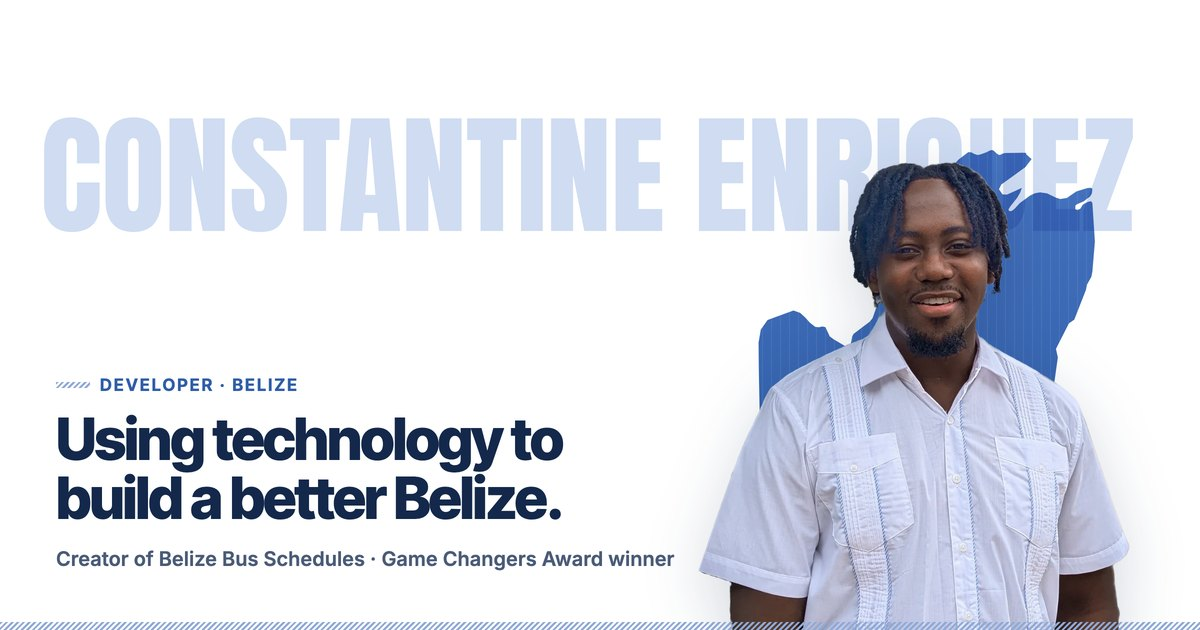
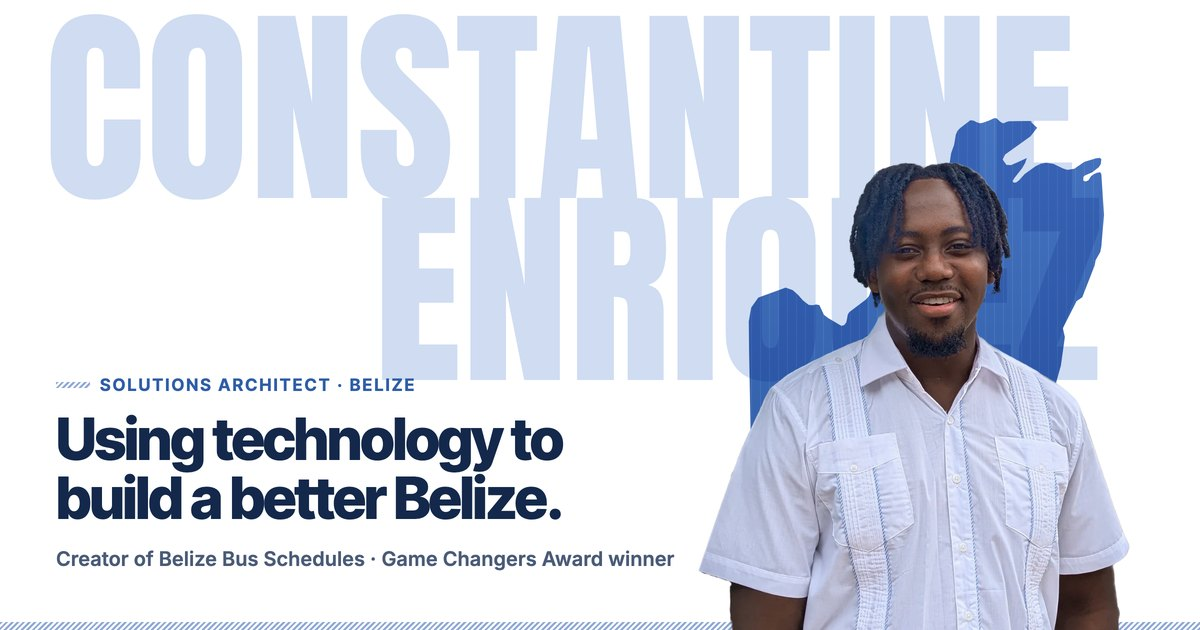
Share image: original layout with the Belize map backdrop; Solutions Architect

Changed region(s): [[0.0308, 0.0, 0.9558, 0.6635], [0.5858, 0.9651, 0.9558, 1.0], [0.8633, 0.4825, 0.925, 0.6032]]

diff --git a/index.html b/index.html
@@ -13,7 +13,7 @@
     <meta property="og:title" content="Constantine Enriquez | Using technology to build a better Belize">
     <meta property="og:description" content="Belizean developer using technology to build a better Belize. Creator of Belize Bus Schedules, If Yo Cya Read, HipHop Belize and the upcoming MayaExplorer.">
     <meta property="og:url" content="https://constantine-enriquez.github.io/">
-    <meta property="og:image" content="https://constantine-enriquez.github.io/assets/images/og-image.jpg?v=8">
+    <meta property="og:image" content="https://constantine-enriquez.github.io/assets/images/og-image.jpg?v=9">
     <meta property="og:image:width" content="1200">
     <meta property="og:image:height" content="630">
     <meta property="og:image:alt" content="Constantine Enriquez in a white guayabera in front of a blue map of Belize, beneath his name, beside the words: Using technology to build a better Belize.">
@@ -21,7 +21,7 @@
     <meta name="twitter:card" content="summary_large_image">
     <meta name="twitter:title" content="Constantine Enriquez | Using technology to build a better Belize">
     <meta name="twitter:description" content="Belizean developer using technology to build a better Belize. Creator of Belize Bus Schedules, If Yo Cya Read, HipHop Belize and the upcoming MayaExplorer.">
-    <meta name="twitter:image" content="https://constantine-enriquez.github.io/assets/images/og-image.jpg?v=8">
+    <meta name="twitter:image" content="https://constantine-enriquez.github.io/assets/images/og-image.jpg?v=9">
 
     <!-- Icons -->
     <link rel="icon" href="/favicon.ico" sizes="any">
@@ -43,7 +43,7 @@
       "name": "Constantine James Enriquez",
       "alternateName": "Constantine Enriquez",
       "url": "https://constantine-enriquez.github.io/",
-      "image": "https://constantine-enriquez.github.io/assets/images/og-image.jpg?v=8",
+      "image": "https://constantine-enriquez.github.io/assets/images/og-image.jpg?v=9",
       "jobTitle": "Software Developer",
       "description": "Belizean developer using technology to build a better Belize.",
       "nationality": {

diff --git a/experience.html b/experience.html
@@ -13,7 +13,7 @@
     <meta property="og:title" content="Experience | Constantine Enriquez">
     <meta property="og:description" content="Work history, independent projects, recognition and education: database development, integrations and support, plus web and app projects built in Belize since 2017.">
     <meta property="og:url" content="https://constantine-enriquez.github.io/experience">
-    <meta property="og:image" content="https://constantine-enriquez.github.io/assets/images/og-image.jpg?v=8">
+    <meta property="og:image" content="https://constantine-enriquez.github.io/assets/images/og-image.jpg?v=9">
     <meta property="og:image:width" content="1200">
     <meta property="og:image:height" content="630">
     <meta property="og:image:alt" content="Constantine Enriquez in a white guayabera in front of a blue map of Belize, beneath his name, beside the words: Using technology to build a better Belize.">
@@ -21,7 +21,7 @@
     <meta name="twitter:card" content="summary_large_image">
     <meta name="twitter:title" content="Experience | Constantine Enriquez">
     <meta name="twitter:description" content="Work history, independent projects, recognition and education: database development, integrations and support, plus web and app projects built in Belize since 2017.">
-    <meta name="twitter:image" content="https://constantine-enriquez.github.io/assets/images/og-image.jpg?v=8">
+    <meta name="twitter:image" content="https://constantine-enriquez.github.io/assets/images/og-image.jpg?v=9">
 
     <!-- Icons -->
     <link rel="icon" href="/favicon.ico" sizes="any">

diff --git a/portfolio.html b/portfolio.html
@@ -13,7 +13,7 @@
     <meta property="og:title" content="Portfolio | Constantine Enriquez">
     <meta property="og:description" content="Websites, apps and platforms built in Belize: Belize Bus Schedules, Kylora Care, If Yo Cya Read, HipHop Belize and MayaExplorer.">
     <meta property="og:url" content="https://constantine-enriquez.github.io/portfolio">
-    <meta property="og:image" content="https://constantine-enriquez.github.io/assets/images/og-image.jpg?v=8">
+    <meta property="og:image" content="https://constantine-enriquez.github.io/assets/images/og-image.jpg?v=9">
     <meta property="og:image:width" content="1200">
     <meta property="og:image:height" content="630">
     <meta property="og:image:alt" content="Constantine Enriquez in a white guayabera in front of a blue map of Belize, beneath his name, beside the words: Using technology to build a better Belize.">
@@ -21,7 +21,7 @@
     <meta name="twitter:card" content="summary_large_image">
     <meta name="twitter:title" content="Portfolio | Constantine Enriquez">
     <meta name="twitter:description" content="Websites, apps and platforms built in Belize: Belize Bus Schedules, Kylora Care, If Yo Cya Read, HipHop Belize and MayaExplorer.">
-    <meta name="twitter:image" content="https://constantine-enriquez.github.io/assets/images/og-image.jpg?v=8">
+    <meta name="twitter:image" content="https://constantine-enriquez.github.io/assets/images/og-image.jpg?v=9">
 
     <!-- Icons -->
     <link rel="icon" href="/favicon.ico" sizes="any">

diff --git a/contact.html b/contact.html
@@ -13,7 +13,7 @@
     <meta property="og:title" content="Contact | Constantine Enriquez">
     <meta property="og:description" content="Got an idea that could help Belize? Get in touch about a website, an app or a community project.">
     <meta property="og:url" content="https://constantine-enriquez.github.io/contact">
-    <meta property="og:image" content="https://constantine-enriquez.github.io/assets/images/og-image.jpg?v=8">
+    <meta property="og:image" content="https://constantine-enriquez.github.io/assets/images/og-image.jpg?v=9">
     <meta property="og:image:width" content="1200">
     <meta property="og:image:height" content="630">
     <meta property="og:image:alt" content="Constantine Enriquez in a white guayabera in front of a blue map of Belize, beneath his name, beside the words: Using technology to build a better Belize.">
@@ -21,7 +21,7 @@
     <meta name="twitter:card" content="summary_large_image">
     <meta name="twitter:title" content="Contact | Constantine Enriquez">
     <meta name="twitter:description" content="Got an idea that could help Belize? Get in touch about a website, an app or a community project.">
-    <meta name="twitter:image" content="https://constantine-enriquez.github.io/assets/images/og-image.jpg?v=8">
+    <meta name="twitter:image" content="https://constantine-enriquez.github.io/assets/images/og-image.jpg?v=9">
 
     <!-- Icons -->
     <link rel="icon" href="/favicon.ico" sizes="any">
